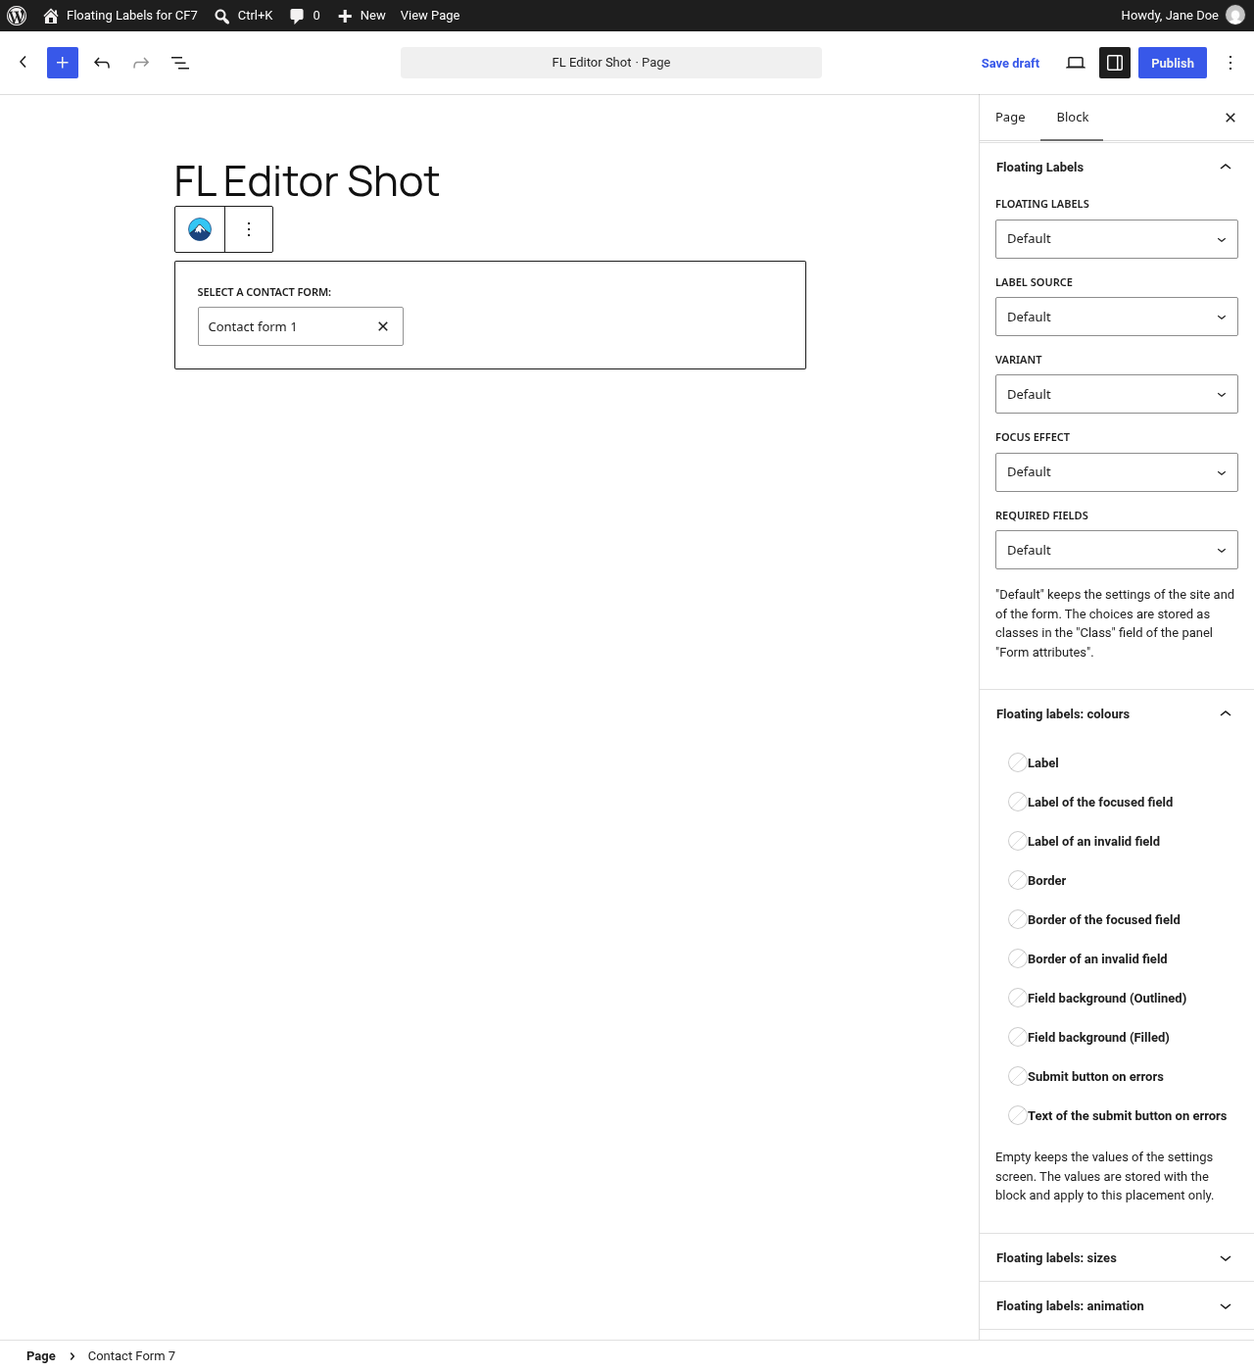
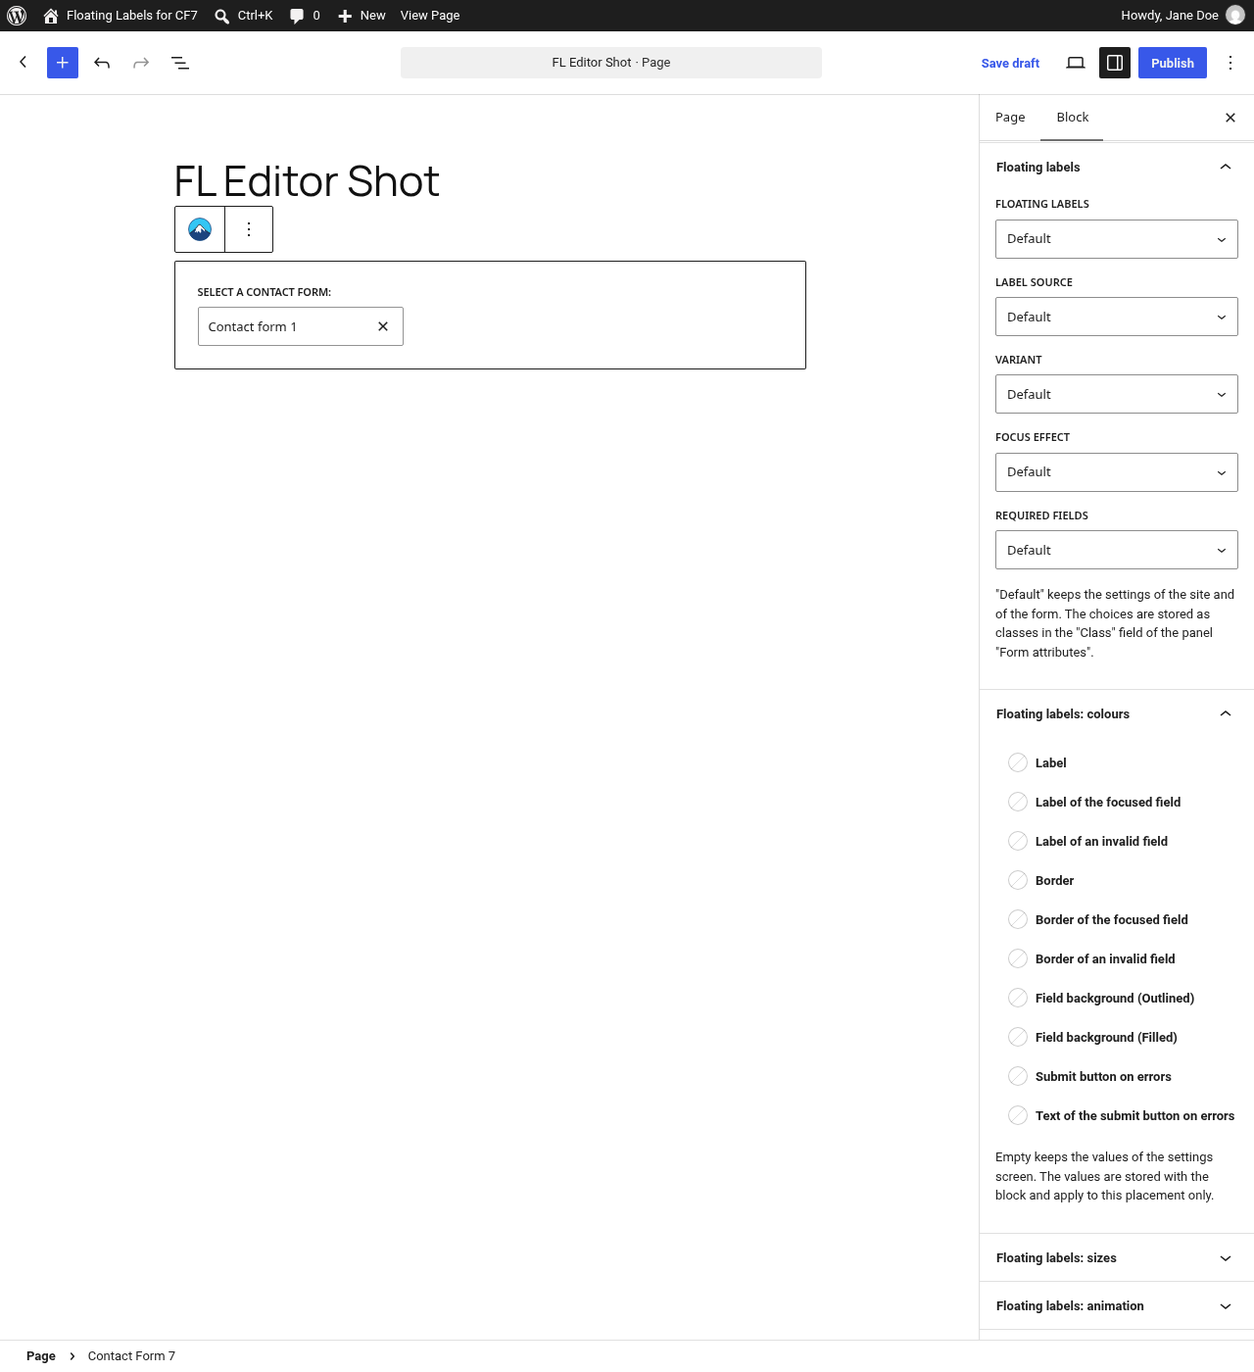
Zweite Sichtprüfung: vier Spalten für den Effekt, Abstand in Farbzeilen, „Floating labels“
Zeile „Glow and running light“ mit jgor-flcf7-columns--4 (max-width
68.5em, vier 16em-Spalten bei genug Breite); 8 px Abstand zwischen
Farbindikator und Name in den Farbzeilen (editor.css); Block-Panel heißt
„Floating labels“ (Script, readme, Kontexthilfe, Screenshot-Script,
Prüfscripte); Konzept 2.7, .pot neu, Screenshots 5 und 6 neu.

Changed region(s): [[0.8125, 0.5529, 0.9688, 0.8293]]

diff --git a/docs/screenshots-admin-erzeugen.js b/docs/screenshots-admin-erzeugen.js
@@ -7,7 +7,7 @@
  * admin menu, from the page title down to the end of the colour fields,
  * with the colour picker of the first field open.
  * Screenshot 6: the block editor with a Contact Form 7 block selected and
- * the block sidebar scrolled to the panels "Floating Labels" and
+ * the block sidebar scrolled to the panels "Floating labels" and
  * "Floating labels: colours".
  *
  * The script creates a temporary administrator (locale en_US, display name
@@ -243,7 +243,7 @@ async function shootEditor( page, pageId, form ) {
 	await page.evaluate( () => document.activeElement && document.activeElement.blur() );
 	await page.waitForTimeout( 400 );
 	// Collapse CF7's own panel (titled like the form) and scroll the sidebar
-	// so that "Floating Labels" sits right below the sticky tab row.
+	// so that "Floating labels" sits right below the sticky tab row.
 	const cf7Panel = page.locator( '.components-panel__body-toggle', { hasText: FORM_TITLE } ).first();
 	if ( ( await cf7Panel.count() ) && ( await cf7Panel.getAttribute( 'aria-expanded' ) ) === 'true' ) {
 		await cf7Panel.click();
@@ -265,7 +265,7 @@ async function shootEditor( page, pageId, form ) {
 				break;
 			}
 		}
-		const toggle = Array.from( sidebar.querySelectorAll( '.components-panel__body-toggle' ) ).find( ( b ) => b.textContent.trim() === 'Floating Labels' );
+		const toggle = Array.from( sidebar.querySelectorAll( '.components-panel__body-toggle' ) ).find( ( b ) => b.textContent.trim() === 'Floating labels' );
 		const panel = toggle && toggle.closest( '.components-panel__body' );
 		const tabs = scroller.querySelector( '[role="tablist"]' );
 		const offset = tabs ? tabs.getBoundingClientRect().height : 0;

diff --git a/plugin/assets/js/block-editor.js b/plugin/assets/js/block-editor.js
@@ -5,7 +5,7 @@
  * (contact-form-7/contact-form-selector) and of a Shortcode block
  * (core/shortcode) whose text holds a [contact-form-7 ...] shortcode:
  *
- * - "Floating Labels": one select per group of placement classes of the
+ * - "Floating labels": one select per group of placement classes of the
  *   plugin (on/off, label source, variant, required marker, focus effect).
  *   The chosen
  *   class is stored where Contact Form 7 reads it anyway: in the block
@@ -164,7 +164,7 @@
 		{
 			group: 'effect',
 			title: __( 'Floating labels: focus effect', 'floating-labels-for-cf7' ),
-			help: __( 'Colour of the glow and of the running light; size of the glow and width of the running light with px, em, rem or %; duration of one pulse or one round with s or ms. The effect itself is chosen in the panel "Floating Labels".', 'floating-labels-for-cf7' )
+			help: __( 'Colour of the glow and of the running light; size of the glow and width of the running light with px, em, rem or %; duration of one pulse or one round with s or ms. The effect itself is chosen in the panel "Floating labels".', 'floating-labels-for-cf7' )
 		}
 	];
 
@@ -803,7 +803,7 @@
 		controls.push( helpElement( store.help ) );
 
 		var panels = [
-			el( wp.components.PanelBody, { key: 'main', title: __( 'Floating Labels', 'floating-labels-for-cf7' ), initialOpen: true }, controls )
+			el( wp.components.PanelBody, { key: 'main', title: __( 'Floating labels', 'floating-labels-for-cf7' ), initialOpen: true }, controls )
 		].concat( designPanels( store ) );
 
 		return el( wp.blockEditor.InspectorControls, null, panels );

diff --git a/plugin/assets/css/admin.css b/plugin/assets/css/admin.css
@@ -4,10 +4,11 @@
  * Loaded on the settings screen only (module 4). Lays out the groups of
  * small controls in columns of equal width: the field types and, in the
  * section "Design", the colours, the sizes and the floated-label values.
- * Every column is 16em wide whether one, two or three of them fit next to
- * each other; the width limit allows three at most, narrower screens get
- * two or one. Everything else on the screen uses the WordPress admin
- * classes.
+ * Every column is 16em wide whether one, two, three or four of them fit
+ * next to each other; the width limit allows three at most, four for a
+ * group with the modifier class (the focus effect values), and narrower
+ * screens get fewer columns. Everything else on the screen uses the
+ * WordPress admin classes.
  */
 
 .form-table .jgor-flcf7-columns {
@@ -19,6 +20,10 @@
 	margin: 0;
 	padding: 0;
 	border: 0;
+}
+
+.form-table .jgor-flcf7-columns.jgor-flcf7-columns--4 {
+	max-width: 68.5em;
 }
 
 .form-table .jgor-flcf7-columns > p {

diff --git a/plugin/assets/css/editor.css b/plugin/assets/css/editor.css
@@ -12,6 +12,7 @@
 
 .jgor-flcf7-color__toggle.jgor-flcf7-color__toggle {
 	width: 100%;
+	gap: 8px;
 	justify-content: flex-start;
 	text-align: start;
 }

diff --git a/tests/verify-admin.php b/tests/verify-admin.php
@@ -153,7 +153,7 @@ jgor_flcf7_check( 'assets: screen stylesheet enqueued after the colour picker, p
 jgor_flcf7_check( 'assets: screen script file exists and calls wpColorPicker', file_exists( JGOR_FLCF7_PATH . 'assets/js/admin.js' ) && str_contains( (string) file_get_contents( JGOR_FLCF7_PATH . 'assets/js/admin.js' ), '.wpColorPicker()' ) );
 // phpcs:ignore WordPress.WP.AlternativeFunctions.file_get_contents_file_get_contents -- local plugin file, no URL.
 $jgor_flcf7_admin_css = file_exists( JGOR_FLCF7_PATH . 'assets/css/admin.css' ) ? (string) file_get_contents( JGOR_FLCF7_PATH . 'assets/css/admin.css' ) : '';
-jgor_flcf7_check( 'assets: screen stylesheet lays the column groups out as a grid of 16em columns, three at most', str_contains( $jgor_flcf7_admin_css, '.' . JGOR_FLCF7_Admin::COLUMNS_CLASS . ' {' ) && str_contains( $jgor_flcf7_admin_css, 'grid-template-columns: repeat(auto-fill, 16em);' ) && str_contains( $jgor_flcf7_admin_css, 'max-width: 51em;' ) );
+jgor_flcf7_check( 'assets: screen stylesheet lays the column groups out as a grid of 16em columns, three at most', str_contains( $jgor_flcf7_admin_css, '.' . JGOR_FLCF7_Admin::COLUMNS_CLASS . ' {' ) && str_contains( $jgor_flcf7_admin_css, 'grid-template-columns: repeat(auto-fill, 16em);' ) && str_contains( $jgor_flcf7_admin_css, 'max-width: 51em;' ) && str_contains( $jgor_flcf7_admin_css, '.' . JGOR_FLCF7_Admin::COLUMNS_CLASS . '.' . JGOR_FLCF7_Admin::COLUMNS_FOUR_CLASS . ' {' ) && str_contains( $jgor_flcf7_admin_css, 'max-width: 68.5em;' ) );
 jgor_flcf7_check( 'help: overview tab escapes <label>', isset( $jgor_flcf7_tabs['jgor-flcf7-help-overview']['content'] ) && str_contains( $jgor_flcf7_tabs['jgor-flcf7-help-overview']['content'], 'a &lt;label&gt; that encloses' ) );
 jgor_flcf7_check( 'help: sidebar links to the plugin page and the Contact Form 7 docs', $jgor_flcf7_screen instanceof WP_Screen && str_contains( $jgor_flcf7_screen->get_help_sidebar(), 'https://github.com/jgorres/floating-labels-for-cf7-plugin' ) && str_contains( $jgor_flcf7_screen->get_help_sidebar(), 'https://contactform7.com/additional-settings/' ) );
 
@@ -191,7 +191,7 @@ jgor_flcf7_check( 'page: focus effect radios, 4 radios, none checked', 4 === pre
 jgor_flcf7_check( 'page: submit error text input with the default', (bool) preg_match( '#<input type="text" class="regular-text" id="jgor-flcf7-submit-error-text" value="Please check the highlighted fields"\s+name="jgor_flcf7_settings\[submit_error_text\]"#s', $jgor_flcf7_html ) );
 jgor_flcf7_check( 'page: load_css and required_marker checked by default', (bool) preg_match( '#name="jgor_flcf7_settings\[load_css\]"[^>]*checked#s', $jgor_flcf7_html ) && (bool) preg_match( '#name="jgor_flcf7_settings\[required_marker\]"[^>]*checked#s', $jgor_flcf7_html ) );
 // The type checkboxes are grid items: no line break inside their fieldset.
-jgor_flcf7_check( 'page: five column groups (types, colours, sizes, motion, effect), no line breaks between the type checkboxes', 5 === preg_match_all( '#<fieldset class="' . JGOR_FLCF7_Admin::COLUMNS_CLASS . '"#', $jgor_flcf7_html ) && (bool) preg_match( '#<fieldset class="' . JGOR_FLCF7_Admin::COLUMNS_CLASS . '"\s*>\s*<legend class="screen-reader-text">Fields with floating labels</legend>#', $jgor_flcf7_html ) && ! preg_match( '#<legend class="screen-reader-text">Fields with floating labels</legend>(?:(?!</fieldset>).)*<br>#s', $jgor_flcf7_html ) );
+jgor_flcf7_check( 'page: five column groups (types, colours, sizes, motion, effect), the effect row with four columns, no line breaks between the type checkboxes', 5 === preg_match_all( '#<fieldset class="' . JGOR_FLCF7_Admin::COLUMNS_CLASS . '(?: [a-z0-9-]+)?"#', $jgor_flcf7_html ) && 1 === preg_match_all( '#<fieldset class="' . JGOR_FLCF7_Admin::COLUMNS_CLASS . ' ' . JGOR_FLCF7_Admin::COLUMNS_FOUR_CLASS . '"\s*>\s*<legend class="screen-reader-text">Glow and running light</legend>#', $jgor_flcf7_html ) && (bool) preg_match( '#<fieldset class="' . JGOR_FLCF7_Admin::COLUMNS_CLASS . '"\s*>\s*<legend class="screen-reader-text">Fields with floating labels</legend>#', $jgor_flcf7_html ) && ! preg_match( '#<legend class="screen-reader-text">Fields with floating labels</legend>(?:(?!</fieldset>).)*<br>#s', $jgor_flcf7_html ) );
 jgor_flcf7_check( 'page: no disabled controls and no locked notice by default', ! str_contains( $jgor_flcf7_html, 'disabled=' ) && ! str_contains( $jgor_flcf7_html, 'fixed in code' ) );
 jgor_flcf7_check( 'page: label ids match for attributes', (bool) preg_match( '#<label for="jgor-flcf7-mode-label">\s*<input type="checkbox" id="jgor-flcf7-mode-label"#s', $jgor_flcf7_html ) );
 jgor_flcf7_check( 'page: control examples escaped', str_contains( $jgor_flcf7_html, 'nofloat placeholder &quot;Your name&quot;]' ) && str_contains( $jgor_flcf7_html, 'html_class=&quot;jgor-flcf7-style-filled&quot;' ) && str_contains( $jgor_flcf7_html, 'floating_labels_types: text email textarea' ) );

diff --git a/plugin/includes/class-jgor-flcf7-admin.php b/plugin/includes/class-jgor-flcf7-admin.php
@@ -60,6 +60,19 @@ final class JGOR_FLCF7_Admin {
 	public const COLUMNS_CLASS = 'jgor-flcf7-columns';
 
 	/**
+	 * Modifier class that lets a column group grow to four columns; the
+	 * other groups stop at three.
+	 */
+	public const COLUMNS_FOUR_CLASS = 'jgor-flcf7-columns--4';
+
+	/**
+	 * Design groups laid out in up to four columns (one per property).
+	 *
+	 * @var string[]
+	 */
+	private const FOUR_COLUMN_GROUPS = array( 'design_effect' );
+
+	/**
 	 * Parent menu slugs of Contact Form 7, newest first: "wpcf7-dashboard"
 	 * since the dashboard was introduced, "wpcf7" before. The first one that
 	 * is registered wins; without either, the page goes under Settings.
@@ -277,7 +290,7 @@ final class JGOR_FLCF7_Admin {
 	 * @return string Plain text.
 	 */
 	private function text_per_placement(): string {
-		return __( 'Select the Contact Form 7 block, or a Shortcode block with the [contact-form-7] shortcode, and open the panel "Floating Labels" in the block sidebar. It stores the choice as classes in the "Class" field of the block (panel "Form attributes") or in the html_class attribute of the shortcode, so one form can look different on different pages. The panels "Floating labels: colours", "Floating labels: sizes", "Floating labels: animation" and "Floating labels: focus effect" below it hold design values for this placement only, stored with the block or in the jgor_flcf7_design attribute of the shortcode:', 'floating-labels-for-cf7' );
+		return __( 'Select the Contact Form 7 block, or a Shortcode block with the [contact-form-7] shortcode, and open the panel "Floating labels" in the block sidebar. It stores the choice as classes in the "Class" field of the block (panel "Form attributes") or in the html_class attribute of the shortcode, so one form can look different on different pages. The panels "Floating labels: colours", "Floating labels: sizes", "Floating labels: animation" and "Floating labels: focus effect" below it hold design values for this placement only, stored with the block or in the jgor_flcf7_design attribute of the shortcode:', 'floating-labels-for-cf7' );
 	}
 
 	/**
@@ -725,7 +738,8 @@ final class JGOR_FLCF7_Admin {
 
 	/**
 	 * Renders one group of design fields (a row of the section "Design"),
-	 * laid out in columns.
+	 * laid out in columns: three at most, four for the groups in
+	 * FOUR_COLUMN_GROUPS.
 	 *
 	 * Colour fields carry the class jgor-flcf7-color for the colour picker
 	 * and the default as data-default-color (hex defaults only); size and
@@ -742,8 +756,9 @@ final class JGOR_FLCF7_Admin {
 		$stored = $this->settings->get( 'design' );
 		$stored = is_array( $stored ) ? $stored : array();
 		$keys   = self::DESIGN_GROUPS[ $group ] ?? array();
+		$class  = self::COLUMNS_CLASS . ( in_array( $group, self::FOUR_COLUMN_GROUPS, true ) ? ' ' . self::COLUMNS_FOUR_CLASS : '' );
 		?>
-		<fieldset class="<?php echo esc_attr( self::COLUMNS_CLASS ); ?>" <?php disabled( $locked ); ?>>
+		<fieldset class="<?php echo esc_attr( $class ); ?>" <?php disabled( $locked ); ?>>
 			<legend class="screen-reader-text"><?php echo esc_html( $this->design_group_label( $group ) ); ?></legend>
 			<?php foreach ( $keys as $key ) : ?>
 				<?php

diff --git a/plugin/includes/class-jgor-flcf7-editor.php b/plugin/includes/class-jgor-flcf7-editor.php
@@ -1,13 +1,13 @@
 <?php
 /**
- * Module 5: the panels "Floating Labels" in the sidebar of the Contact Form 7
+ * Module 5: the panels "Floating labels" in the sidebar of the Contact Form 7
  * block and of a Shortcode block with the shortcode.
  *
  * Enqueues a small editor script (assets/js/block-editor.js, no build step)
  * and its stylesheet (assets/css/editor.css) on enqueue_block_editor_assets.
  * The script hooks into the filter editor.BlockEdit and adds the panel
- * "Floating Labels" with four selects (on/off, label source, variant,
- * required marker), stored as placement classes of the concept (section
+ * "Floating labels" with five selects (on/off, label source, variant,
+ * focus effect, required marker), stored as placement classes of the concept (section
  * 7.4) in the block attribute htmlClass or the shortcode attribute
  * html_class, and the panels "Floating labels: colours", "sizes" and
  * "animation" with the design values of this placement, stored in the block

diff --git a/docs/konzept.md b/docs/konzept.md
@@ -1,6 +1,6 @@
 # Floating Labels for CF7 – Konzept und Aufbau
 
-Version: 2.6 · Stand: 23.10.2026 · Plugin-Version: 1.0.0 (Module 1–5 umgesetzt, Nachbesserungen aus der Sichtprüfung eingearbeitet, Release-Vorbereitung läuft)
+Version: 2.7 · Stand: 23.10.2026 · Plugin-Version: 1.0.0 (Module 1–5 umgesetzt, Nachbesserungen aus der Sichtprüfung eingearbeitet, Release-Vorbereitung läuft)
 
 ## 1. Zweck
 
@@ -80,7 +80,7 @@ floating-labels-for-cf7/
 │   ├── assets/css/floating-labels.css     Frontend (eine Datei, alle Varianten, Fokus-Effekte)
 │   ├── assets/css/admin.css               Einstellungsseite: Spalten der Feld-Gruppen (9)
 │   ├── assets/css/editor.css              Block-Editor: Farbzeilen der Design-Panels (10.1)
-│   ├── assets/js/block-editor.js          Panels „Floating Labels“ (Platzierung und Design) im CF7- und Shortcode-Block, ohne Build-Schritt
+│   ├── assets/js/block-editor.js          Panels „Floating labels“ (Platzierung und Design) im CF7- und Shortcode-Block, ohne Build-Schritt
 │   ├── assets/js/admin.js                 Farbwähler auf der Einstellungsseite
 │   └── languages/floating-labels-for-cf7.pot  Übersetzungsvorlage (wp i18n make-pot)
 ├── tests/
@@ -138,7 +138,7 @@ WordPress (Abschnitt 13).
 - **CF7-Konventionen:** Die Steuerung je Formular läuft über die Additional
   Settings (`floating_labels: off`, `floating_labels_style: filled`, …), je
   Platzierung über das Shortcode-/Block-Attribut `html_class` (im
-  Block-Editor per Panel „Floating Labels“, Modul 5), je Feld über
+  Block-Editor per Panel „Floating labels“, Modul 5), je Feld über
   eine Form-Tag-Option (`nofloat`); Rangfolge in 7.4. Das CSS folgt der
   Ladepolitik von CF7 über die Action `wpcf7_enqueue_styles`.
 - **Theme-freundlich:** Farben, Maße, Dauer und die Werte des
@@ -404,7 +404,7 @@ Schicht übersteuert die frühere, ungültige Werte werden ignoriert:
 3. **`html_class` der Platzierung** (Shortcode `[contact-form-7 id="…"
    html_class="…"]`, im CF7-Block das Feld „Class“ im Panel „Form
    attributes“; gelesen per `shortcode_attr( 'html_class' )`). Im
-   Block-Editor setzt das Panel „Floating Labels“ (Modul 5, 10) diese
+   Block-Editor setzt das Panel „Floating labels“ (Modul 5, 10) diese
    Klassen per Auswahlfeld. Erkannte Klassen: `jgor-flcf7-off`, `jgor-flcf7-on`, `jgor-flcf7-mode-placeholder`,
    `jgor-flcf7-mode-label`, `jgor-flcf7-style-outlined`,
    `jgor-flcf7-style-filled`, `jgor-flcf7-style-minimal`,
@@ -675,7 +675,11 @@ eine zweite CSS-Datei oder Inline-CSS bräuchte.
   Maße, Floated Label/Animation, Glow/Running light) sind ein Grid
   `repeat(auto-fill, 16em)` mit `max-width: 51em`: jede Spalte ist 16em
   breit, bei zwei wie bei drei Spalten, höchstens drei nebeneinander,
-  schmale Fenster bekommen zwei oder eine. Die Typen-Checkboxen stehen
+  schmale Fenster bekommen zwei oder eine. Die Zeile „Glow and running
+  light“ trägt zusätzlich `jgor-flcf7-columns--4` (`max-width: 68.5em`),
+  damit ihre vier Felder bei genug Breite in einer Reihe stehen (ab etwa
+  1400 px Fensterbreite; darunter brechen sie wie die anderen auf drei
+  Spalten um). Die Typen-Checkboxen stehen
   ohne `<br>` als Grid-Elemente. Das einzige Admin-Script ist der
   Farbwähler der Design-Felder (9.2).
 
@@ -771,7 +775,7 @@ einem Klassenfeld oder im Shortcode-Text.
   `wp.hooks.addFilter( 'editor.BlockEdit', 'jgor-flcf7/block-editor', … )`
   mit einer Higher-Order-Component an alle Blöcke, gibt für fremde Blöcke
   die Original-Komponente zurück und ergänzt ein `InspectorControls`-Panel
-  „Floating Labels“ (`PanelBody`, offen; die Felder stehen direkt im Panel
+  „Floating labels“ (`PanelBody`, offen; die Felder stehen direkt im Panel
   und bekommen den Abstand des Block-Inspectors von 16 px wie die Panels
   der Core-Blöcke; eine `Flex`-Hülle mit eigenem Gap hatte den Abstand bis
   2.5 verdoppelt)
@@ -821,14 +825,15 @@ Ergänzt am 22.10.2026 (Commit cbc7ca7): Farben, Maße und Animation (9.2)
 sollen auch je Platzierung im Block-Panel einstellbar sein, nicht nur
 global.
 
-- Vier weitere Panels unter „Floating Labels“, alle `PanelBody` und
+- Vier weitere Panels unter „Floating labels“, alle `PanelBody` und
   geschlossen (einklappbar): „Floating labels: colours“ (zehn Farbzeilen),
   „Floating labels: sizes“ (sechs `TextControl`-Felder), „Floating labels:
   animation“ (`label-scale` als Zahlenfeld 0,5–1, `duration` als
   Textfeld) und seit 2.6 „Floating labels: focus effect“ (eine Farbzeile,
   zwei Größenfelder, Dauer). Eine Farbzeile ist die Komponente
   `ColorControl` des Scripts: ein `Button` über die ganze Breite mit
-  `ColorIndicator` (schraffiert, solange nichts gesetzt ist) und dem Namen
+  `ColorIndicator` (schraffiert, solange nichts gesetzt ist), 8 px Abstand
+  (`editor.css`) und dem Namen
   der Property, der per `Dropdown` (Popover links neben der Seitenleiste)
   die `ColorPalette` der Komponenten öffnet, mit den Gruppen Theme,
   Default und Custom aus `wp.blockEditor.useSettings( 'color.palette.*',
@@ -1029,7 +1034,7 @@ node --check plugin/assets/js/block-editor.js && node tests/verify-editor-js.mjs
   Label rot oben, Tip im Feld, Senden-Button rot mit Fehlertext), Versand
   mit `skip_mail: on` → Labels sinken zurück, Einstellungsseite speichern
   und Hilfe-Reiter öffnen, Block-Editor: CF7-Block markieren, Panel
-  „Floating Labels“ unter „Block“, Auswahl ändern, Feld „Class“ unter „Form
+  „Floating labels“ unter „Block“, Auswahl ändern, Feld „Class“ unter „Form
   attributes“ zeigt die Klasse; Shortcode-Block mit `[contact-form-7 …]`
   markieren, Auswahl ändern, `html_class` erscheint im Shortcode-Text; Seite
   speichern und Frontend prüfen; Design: Farbe wählen, Größe eintragen,
@@ -1062,7 +1067,7 @@ node --check plugin/assets/js/block-editor.js && node tests/verify-editor-js.mjs
   Farbwähler (Screenshot 5, 1280×1881) sowie den Block-Editor mit per
   `wp.blocks.createBlock()` eingefügtem CF7-Block, eingeklapptem CF7-Panel,
   geöffnetem Panel „Floating labels: colours“, geparktem Mauszeiger
-  und zur Seitenleiste „Floating Labels“ gescrollt (Screenshot 6,
+  und zur Seitenleiste „Floating labels“ gescrollt (Screenshot 6,
   1280×1400); gespeichert wird nichts, danach entfernt es Seite, Konto und
   ein selbst angelegtes Formular wieder. playwright-core kommt aus einer
   globalen Installation oder aus dem npx-Cache des Playwright-MCP.
@@ -1210,3 +1215,4 @@ node --check plugin/assets/js/block-editor.js && node tests/verify-editor-js.mjs
 | 2.4 | 22.10.2026 | Design je Platzierung im Block-Panel (Commit cbc7ca7): neuer Abschnitt 10.1 (Panels „Floating labels: colours/sizes/animation“, Block-Attribut `jgorFlcf7Design` per `register_block_type_args`, Shortcode-Attribut `jgor_flcf7_design`, `render_block_…` und `do_shortcode_tag`, `style` am Wrapper, neue Klasse `JGOR_FLCF7_Placement_Design`); §3 Dateien, §4, §5 Block-Rendering und Shortcode-Attribute, §6 Bootstrap, §7.4, §9.2, §10 Inline-Daten, §13 (`verify-markup.php` 82, `verify-editor.php` 23, `verify-editor-js.mjs` 76, ZIP 14 Dateien 52 KB, Browser-Matrix), §14 Schritt 8; readme, Kontexthilfe; `.pot` 120 Texte |
 | 2.5 | 23.10.2026 | Screenshots 5 und 6 per `docs/screenshots-admin-erzeugen.js` (playwright-core + System-Chromium, temporäres Konto, Entwurfsseite, Aufräumen): §3 Verzeichnisbaum, §13 Assets und Hinweis zu Playwright auf Bodhran, §14 Schritte 5.4 (erledigt), 6, 7 und 8 |
 | 2.6 | 23.10.2026 | Nachbesserungen aus der Sichtprüfung (Commits a89fbe0, b655073, 87c17f9): Block-Panels ohne `Flex`-Hüllen (Abstand des Inspectors), „Floating labels: colours“ als einklappbares `PanelBody` mit eigenen Farbzeilen (`useSettings`, `Dropdown`, `ColorPalette`) statt `PanelColorSettings` (ToolsPanel in WP 7.1), `assets/css/editor.css` (10, 10.1); Einstellungsseite mit `assets/css/admin.css` und 16em-Spalten für Typen, Farben, Maße, Animation und Effekt (9); `required_marker` Default true (6); Fokus-Effekte: Option `effect`, `floating_labels_effect`, `jgor-flcf7-effect-*`, Wrap-Klasse `jgor-flcf7-<effect>`, Properties `effect-color/-size/-width/-duration`, CSS mit `box-shadow`, Keyframes, `conic-gradient` + `@property`, Reduced Motion stehend (6, 7.4, 7.6, 8, 9.2, 10); §3, §4, §13 (Prüfungen 88/54/29/27/86, ZIP 16 Dateien 60 KB, Screenshots 5/6), §14 Schritt 9, §15; readme, Kontexthilfe; `.pot` 140 Texte |
+| 2.7 | 23.10.2026 | Zweite Sichtprüfung: Zeile „Glow and running light“ mit vier Spalten (`jgor-flcf7-columns--4`, 9), 8 px Abstand zwischen Farbindikator und Name in den Farbzeilen (10.1), Panel „Floating labels“ statt „Floating Labels“ (10, readme, Kontexthilfe, Screenshot-Script); `.pot` neu |
